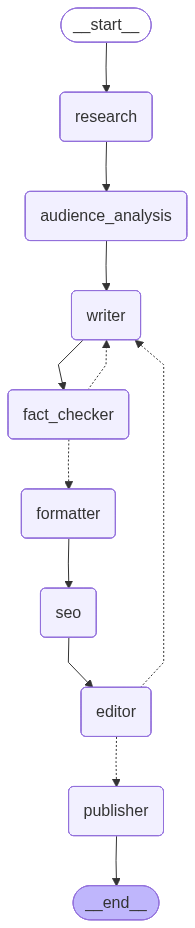
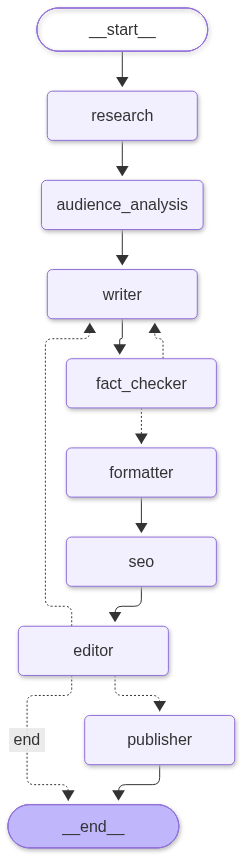
docs: update README and workflow diagram for latest pipeline
Regenerate media/blog_graph.png to include the editor -> END route
(auto-publish off), and bring the README in line with dev: auto-publish
branch in the architecture diagram, session notes and per-step reasoning
effort, Publisher in the node list, and Formatter -> SEO ordering in
Workflow Details.

diff --git a/README.md b/README.md
@@ -30,11 +30,14 @@ An automated blog post generation system built with LangGraph, LangChain, and Cl
 - **Fact Checking**: Verifies factual claims against web sources after writing, with a revision loop (max 3 attempts)
 - **Tone Presets**: Choose from built-in tone presets (`conversational`, `expert_casual`, `storyteller`, `practical`, `thought_leader`) or define your own
 - **Custom Instructions**: Provide per-article instructions to guide the content direction
+- **Session Notes**: Optional hands-on session brief that becomes the post's foundation — drives research queries and priority URLs, and the writer builds the article on it in first person
+- **Per-Step Reasoning Effort**: Each LLM step has its own reasoning effort and temperature, sent according to what the selected model supports
 - **SEO Optimization**: Automatically optimizes content for search engines with excerpt support
 - **Ghost CMS Integration**: Publishes directly to Ghost CMS with full metadata (title, excerpt, meta description, tags)
 - **Editor Approval Gate**: LLM-based editorial review scoring cohesiveness, hook quality, storytelling, and authentic voice
 - **Revision Loop**: Failed articles automatically route back to writer with specific, actionable feedback (max 3 attempts)
 - **Forced Publishing**: Articles exceeding max revisions force-publish with editor's note explaining unresolved issues
+- **Auto-Publish Toggle**: With auto-publish off, approved articles stop before the publisher so you can review and publish manually from the UI
 - **Visual Recommendations**: Formatter suggests where to add images, charts, tables, and diagrams
 - **Quality Assurance**: Built-in content quality checks (word count, inline links, structure, headings, sections)
 - **Date-Aware Prompts**: All prompts receive the current date for timely, relevant content
@@ -49,7 +52,8 @@ The system uses a LangGraph state graph with 8 nodes and two approval gate workf
 ```
 Research → Audience Analysis → Writer → Fact Checker → Formatter → SEO → Editor (Approval Gate)
                                   ↑           |                               ├─→ Approved → Publisher
-                                  └───────────┘ (Fact Check Loop, max 3x)    └─→ Rejected ↻ Writer (Revision Loop, max 3x)
+                                  └───────────┘ (Fact Check Loop, max 3x)    ├─→ Approved, auto-publish off → End (publish manually)
+                                                                              └─→ Rejected ↻ Writer (Revision Loop, max 3x)
 ```
 
 ### Workflow Diagram
@@ -58,7 +62,7 @@ Research → Audience Analysis → Writer → Fact Checker → Formatter → SEO
 
 Each node performs a specific task and updates the shared state:
 
-- **Research**: Gathers information via web search, generates headline candidates
+- **Research**: Gathers information via web search (guided by instructions and session notes), generates headline candidates
 - **Audience Analysis**: Identifies target reader persona, pain points, goals, and content angle
 - **Writer**: Generates comprehensive article with hooks, storytelling, and authentic voice (or revises based on fact checker / editor feedback)
 - **Fact Checker**: Verifies factual claims against web sources; routes back to Writer if issues found (max 3 attempts), force-passes if exhausted
@@ -269,7 +273,8 @@ python main.py "Web Development" --instructions "Emphasize security best practic
 Custom instructions are passed to multiple nodes:
 - **Writer**: Influences article structure, focus, and tone
 - **SEO**: Guides keyword selection and optimization strategy
-- **Editor**: Informs editorial feedback and quality checks
+- **Editor**: Approval gate — scores the article and runs mechanical checks; approves (to Publisher, or stops if auto-publish is off), rejects back to Writer (max 3 attempts), or force-publishes when revisions are exhausted
+- **Publisher**: Saves the article locally and publishes to Ghost CMS with full metadata
 
 ### Visualize the Workflow
 
@@ -308,7 +313,7 @@ Open [http://localhost:3000](http://localhost:3000) in your browser.
 | **New Post** | Create a new blog generation job with topic, tone, word count, custom instructions, and optional session notes (a hands-on session brief that becomes the post's foundation) |
 | **Queue** | View pending and in-progress jobs |
 | **History** | Browse completed jobs and their results |
-| **Settings** | Set default tone and word count, change password |
+| **Settings** | Set model, per-step reasoning effort / temperature, default tone and word count, auto-publish to Ghost; change password |
 
 ### Authentication
 
@@ -445,6 +450,8 @@ blogging-with-langchain/
 ## Workflow Details
 
 ### 1. Research Node
+- Fetches priority URLs found in custom instructions and session notes
+- Generates search queries from the topic, instructions, and session notes
 - Performs 5-7 web searches using Brave Search API
 - Collects 5-10 credible sources
 - Generates research summary with source information
@@ -484,6 +491,7 @@ blogging-with-langchain/
   - Mini-cliffhangers between sections
 - **Features:** 10-15 inline citations, headline candidates from research, audience-tailored content
 - **Custom instructions:** Applied to influence article direction and focus
+- **Session notes:** When provided, they are the article's primary source — the writer tells the story in first person and grounds claims in the notes alongside verified research facts (a verified fact wins on conflict; fact-check corrections override the notes)
 
 ### 4. Fact Checker Node
 - Verifies factual claims in the article against live web sources using Brave Search
@@ -492,7 +500,14 @@ blogging-with-langchain/
 - Allows max 3 revision attempts before force-passing to Formatter
 - Sets `fact_check_status` (`passed`, `failed`, `force_passed`) for conditional routing
 
-### 5. SEO Node
+### 5. Formatter Node
+- Formats content for Ghost CMS
+- Ensures proper Markdown syntax
+- Fixes heading hierarchy
+- Normalizes spacing and line breaks
+- Generates visual placement recommendations (hero images, comparison tables, workflow diagrams, charts, screenshots)
+
+### 6. SEO Node
 - Generates SEO-optimized title (50-60 chars)
 - Creates meta description (150-160 chars)
 - **Generates article excerpt** (200-250 chars for listing pages)
@@ -500,13 +515,6 @@ blogging-with-langchain/
 - Identifies 3-5 primary keywords
 - Calculates keyword density (targets 1.5-2%)
 - **Custom instructions:** Guides keyword selection and optimization strategy
-
-### 6. Formatter Node
-- Formats content for Ghost CMS
-- Ensures proper Markdown syntax
-- Fixes heading hierarchy
-- Normalizes spacing and line breaks
-- Generates visual placement recommendations (hero images, comparison tables, workflow diagrams, charts, screenshots)
 
 ### 7. Editor Node (Approval Gate)
 
@@ -525,7 +533,7 @@ blogging-with-langchain/
 **Approval Paths:**
 1. **✅ APPROVED**: All scores meet thresholds and mechanical requirements pass
    - Sets `approval_status: "approved"`
-   - Routes to Publisher node
+   - Routes to Publisher node — or, when auto-publish to Ghost is off, ends the run so the article can be reviewed and published manually ("Publish to Ghost" in History, or the `publish_blog` MCP tool)
 
 2. **❌ REJECTED + Revisions Available**: Scores or checks fail, attempts < 3
    - Sets `approval_status: "rejected"`
@@ -537,10 +545,11 @@ blogging-with-langchain/
 3. **⚠ FORCE PUBLISH**: Checks fail, revisions exhausted (≥ 3 attempts)
    - Sets `approval_status: "force_publish"`
    - Prepends editor's note with all scores and unresolved issues
-   - Routes to Publisher node with forced note
+   - Routes to Publisher node with forced note (or ends the run if auto-publish is off)
    - Marks article with warning in logs
 
 ### 8. Publisher Node
+- Runs automatically after editor approval when auto-publish to Ghost is on; otherwise invoked on demand from the UI or MCP `publish_blog`
 - Checks for forced publish note and prepends if present
 - Saves article to local `output/` directory with timestamp
 - Removes H1 title from content (sent separately to avoid duplication)
